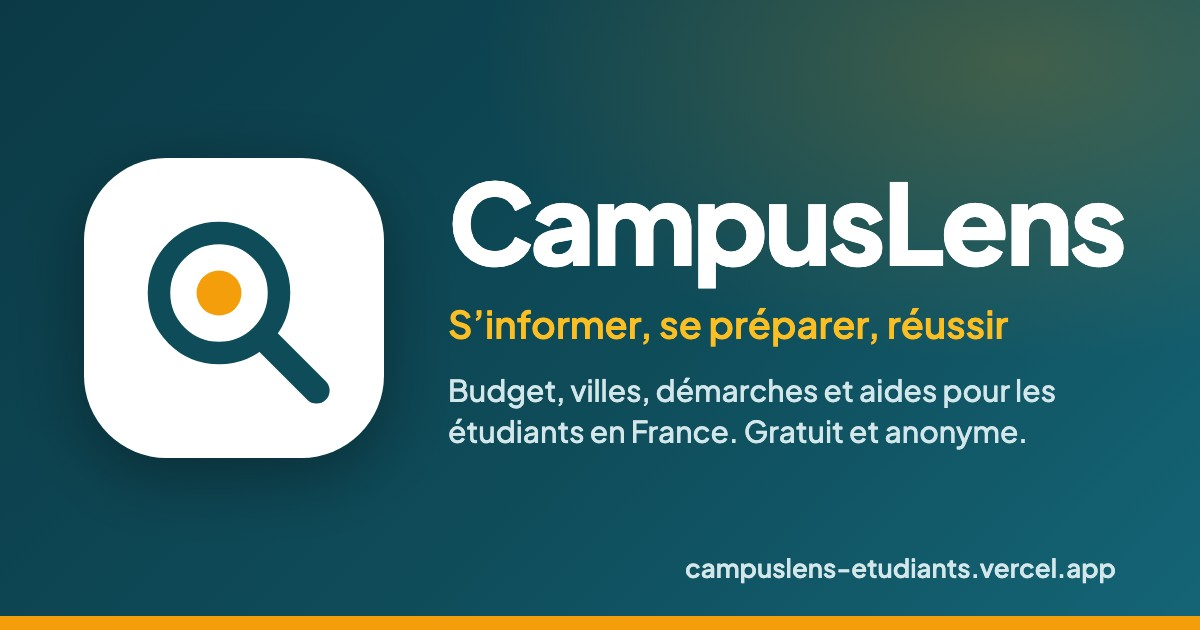
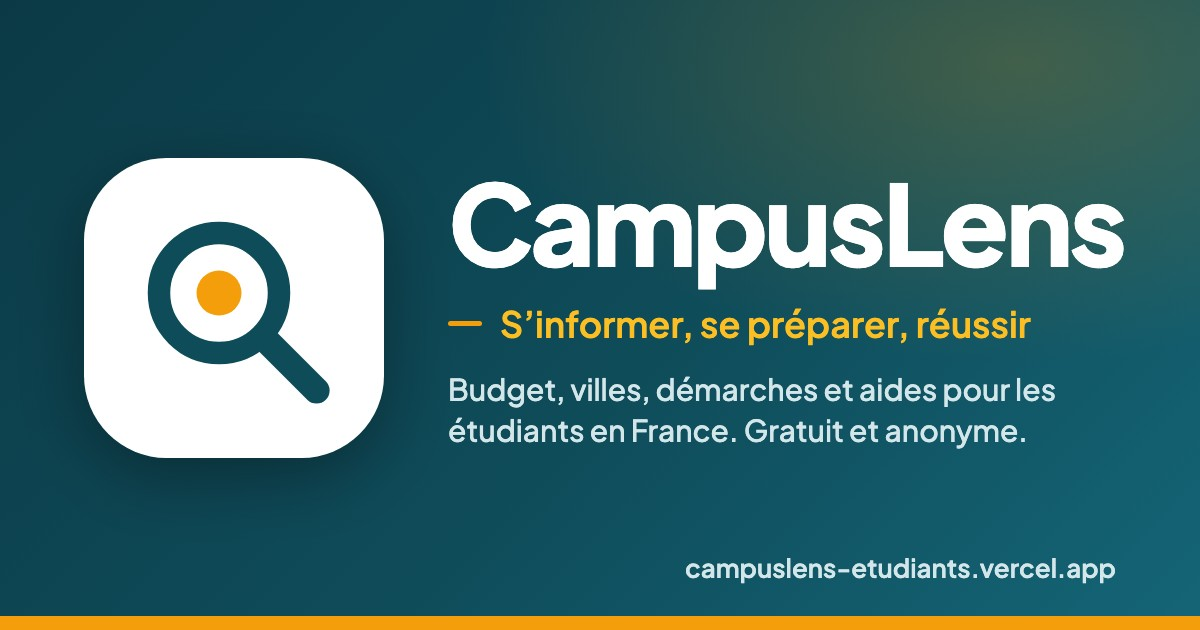
Textes cohérents avec le but du site (pied de page, Mes aides, accueil, À propos, profils, préfecture, application d'authentification), adresse e-mail personnelle retirée des pages, aperçu des liens (v=3) avec devise

diff --git a/frontend/src/pages/Admin.jsx b/frontend/src/pages/Admin.jsx
@@ -1021,7 +1021,11 @@ function DoubleAuthentification() {
     try {
       await post('/admin/2fa/desactiver', retrait);
       setRetrait(null);
-      setEtat({ envoi: false, erreur: null, message: 'Double authentification désactivée.' });
+      setEtat({
+        envoi: false,
+        erreur: null,
+        message: 'Application d’authentification désactivée.',
+      });
       recharger();
       rafraichirAdmin?.();
     } catch (err) {
@@ -1032,7 +1036,7 @@ function DoubleAuthentification() {
   return (
     <section className="carte carte-compte" aria-labelledby="titre-2fa">
       <h2 id="titre-2fa" className="titre-carte">
-        Double authentification
+        Application d’authentification
       </h2>
       {etat.message && (
         <p className="message message-succes" role="status">
@@ -1048,8 +1052,8 @@ function DoubleAuthentification() {
       {secours && (
         <div role="region" aria-label="Codes de secours" className="codes-secours">
           <p>
-            <strong>La double authentification est activée.</strong> Voici vos codes de secours.
-            Chacun ne sert qu’une fois, si vous perdez votre téléphone.{' '}
+            <strong>L’application d’authentification est activée.</strong> Voici vos codes de
+            secours. Chacun ne sert qu’une fois, si vous perdez votre téléphone.{' '}
             <strong>
               Notez-les maintenant dans un endroit sûr : ils ne seront plus jamais affichés.
             </strong>
@@ -1070,13 +1074,14 @@ function DoubleAuthentification() {
       {!secours && !data.actif && !preparation && (
         <>
           <p>
-            <strong>Non activée.</strong> Avec la double authentification, le mot de passe ne suffit
-            plus : il faut aussi un code à 6 chiffres qui change toutes les 30 secondes, produit par
-            une application sur votre téléphone (Google Authenticator, Microsoft Authenticator,
-            Aegis…). Même si votre mot de passe était volé, personne ne pourrait entrer.
+            <strong>Non activée.</strong> À chaque connexion, un code à 6 chiffres est déjà envoyé
+            par e-mail après votre mot de passe. L’application d’authentification ajoute une
+            protection qui ne dépend pas de votre boîte mail : elle affiche un code à 6 chiffres qui
+            change toutes les 30 secondes (Google Authenticator, Microsoft Authenticator, Aegis…).
+            Elle sert aussi de secours si l’e-mail n’arrive pas.
           </p>
           <button type="button" className="bouton" onClick={commencer} disabled={etat.envoi}>
-            Activer la double authentification
+            Activer l’application d’authentification
           </button>
         </>
       )}
@@ -1172,7 +1177,7 @@ function DoubleAuthentification() {
             />
           </div>
           <button type="submit" className="bouton" disabled={etat.envoi}>
-            Désactiver la double authentification
+            Désactiver l’application d’authentification
           </button>{' '}
           <button
             type="button"
@@ -1752,9 +1757,9 @@ export default function AdminLayout() {
         {/* Rappel tant que la double authentification n'est pas activée (sauf sur la page qui la propose). */}
         {admin && admin.deuxFacteurs === false && pathname !== '/admin/compte' && (
           <p className="message rappel-2fa" role="note">
-            <strong>Protégez votre compte.</strong> Les messages des visiteurs contiennent des
-            adresses e-mail : activez la double authentification dans{' '}
-            <Link to="/admin/compte">Mon compte</Link>.
+            <strong>Pour renforcer votre compte,</strong> ajoutez une application d’authentification
+            dans <Link to="/admin/compte">Mon compte</Link> : elle protège même si votre boîte mail
+            est piratée.
           </p>
         )}
         {admin && (

diff --git a/frontend/tests/budget.test.jsx b/frontend/tests/budget.test.jsx
@@ -40,16 +40,16 @@ describe('Préparer mon budget', () => {
       (await screen.findByText('Droits d’inscription', { selector: 'p' })).closest('li');
     expect(await droits()).toHaveTextContent('178');
 
-    await userEvent.click(screen.getByRole('button', { name: 'Boursier' }));
+    await userEvent.click(screen.getByRole('button', { name: 'Étudiant boursier' }));
     await vi.waitFor(async () => expect(await droits()).toHaveTextContent('0 €'));
     expect(mock).toHaveBeenCalledWith(
       '/api/postes-rentree?profil=boursier&niveau=licence',
       expect.anything(),
     );
 
-    await userEvent.click(screen.getByRole('button', { name: 'International hors UE' }));
+    await userEvent.click(screen.getByRole('button', { name: 'Étudiant international hors UE' }));
     await vi.waitFor(async () => expect(await droits()).toHaveTextContent('2 902'));
-    expect(screen.getByRole('button', { name: 'International hors UE' })).toHaveAttribute(
+    expect(screen.getByRole('button', { name: 'Étudiant international hors UE' })).toHaveAttribute(
       'aria-pressed',
       'true',
     );
@@ -125,11 +125,11 @@ describe('Préparer mon budget', () => {
       (await screen.findByText('Budget de rentrée à prévoir')).closest('li');
     expect(await total()).toHaveTextContent('815');
 
-    await userEvent.click(screen.getByRole('button', { name: 'Boursier' }));
+    await userEvent.click(screen.getByRole('button', { name: 'Étudiant boursier' }));
     await vi.waitFor(async () => expect(await total()).toHaveTextContent('637'));
     expect(screen.getByText(/Offert avec votre bourse \(178/)).toBeInTheDocument();
 
-    await userEvent.click(screen.getByRole('button', { name: 'International hors UE' }));
+    await userEvent.click(screen.getByRole('button', { name: 'Étudiant international hors UE' }));
     await vi.waitFor(async () => expect(await total()).toHaveTextContent('3 639'));
     expect(screen.getByText('Taxe de validation du visa (VLS-TS)')).toBeInTheDocument();
   });
@@ -145,7 +145,7 @@ describe('Préparer mon budget', () => {
     expect(rappel.textContent).toContain('je viens d’arriver en France');
     expect(rappel.textContent).not.toContain('en france');
     expect(rappel.textContent).toMatch(
-      /«\u00a0International hors UE, je viens d’arriver en France\u00a0»/,
+      /«\u00a0Étudiant international hors UE, je viens d’arriver en France\u00a0»/,
     );
 
     const ressources = screen.getByRole('region', { name: /À justifier pour votre visa/ });
@@ -193,7 +193,7 @@ describe('Préparer mon budget', () => {
     ).toBeInTheDocument();
 
     // International en master : droits différenciés du master.
-    await userEvent.click(screen.getByRole('button', { name: 'International hors UE' }));
+    await userEvent.click(screen.getByRole('button', { name: 'Étudiant international hors UE' }));
     await vi.waitFor(async () => expect(await droits()).toHaveTextContent('3 950'));
   });
 
@@ -215,11 +215,11 @@ describe('Préparer mon budget', () => {
     );
 
     // L'exonération n'existe que pour le profil international.
-    await userEvent.click(screen.getByRole('button', { name: 'Boursier' }));
+    await userEvent.click(screen.getByRole('button', { name: 'Étudiant boursier' }));
     expect(screen.queryByRole('checkbox', { name: /exonéré/ })).not.toBeInTheDocument();
 
     // Revenir au profil international : l'exonération ne s'est pas cochée toute seule.
-    await userEvent.click(screen.getByRole('button', { name: 'International hors UE' }));
+    await userEvent.click(screen.getByRole('button', { name: 'Étudiant international hors UE' }));
     expect(screen.getByRole('checkbox', { name: /exonéré/ })).not.toBeChecked();
     await vi.waitFor(async () => expect(await droits()).toHaveTextContent('3 950'));
   });

diff --git a/frontend/tests/textes-coherents.test.js b/frontend/tests/textes-coherents.test.js
@@ -1,0 +1,50 @@
+import { describe, it, expect } from 'vitest';
+import { readFileSync } from 'node:fs';
+import { resolve } from 'node:path';
+
+// Les textes de page sont coupés en lignes par le formateur : on compare avec des espaces simples.
+const lire = (chemin) =>
+  readFileSync(resolve(import.meta.dirname, '..', chemin), 'utf8').replace(/[ \t]*\n[ \t]*/g, ' ');
+
+describe('Cohérence des textes du site avec son but (informer, préparer, bien vivre ses études)', () => {
+  it('plus aucune promesse de « droit » dans les titres ni l’ancien message du pied de page', () => {
+    expect(lire('src/pages/Aides.jsx')).not.toContain('auxquelles vous avez droit');
+    expect(lire('src/components/Pied.jsx')).not.toContain('Comprendre ses droits');
+    expect(lire('src/pages/Accueil.jsx')).not.toContain('Je découvre mes droits');
+    expect(lire('src/pages/Accueil.jsx')).not.toContain('absolument');
+    expect(lire('src/pages/APropos.jsx')).not.toMatch(
+      /connaître ses droits|comprendre leurs droits/,
+    );
+  });
+  it('les trois profils portent le même nom partout', () => {
+    const profils = lire('src/lib/profils.js');
+    expect(profils).toContain("'Étudiant français ou UE'");
+    expect(profils).toContain("'Étudiant international hors UE'");
+    expect(profils).not.toContain('européen');
+    const budget = lire('src/pages/Budget.jsx');
+    expect(budget).toContain("libelle: 'Étudiant boursier'");
+    expect(budget).toContain("libelle: 'Étudiant international hors UE'");
+  });
+  it('« apprécié » (jargon) ne figure plus : la décision revient à la préfecture', () => {
+    expect(lire('src/pages/Budget.jsx')).not.toContain('apprécié');
+    expect(lire('src/pages/Budget.jsx')).toContain('la décision revient à la préfecture');
+  });
+  it('« À propos » ne prétend pas que des robots lisent les sites qui les refusent', () => {
+    expect(lire('src/pages/APropos.jsx')).toContain('refuse les robots');
+    expect(lire('src/pages/APropos.jsx')).toContain('à la main, au moins tous les 90');
+  });
+  it('aucune adresse e-mail personnelle publiée (pages, security.txt, configuration)', () => {
+    const securite = readFileSync(
+      resolve(import.meta.dirname, '..', 'public/.well-known/security.txt'),
+      'utf8',
+    );
+    expect(securite).not.toMatch(/@gmail|mailto:/i);
+    expect(securite).toMatch(/^Contact: https:\/\/campuslens-etudiants\.vercel\.app\/contact$/m);
+    for (const f of [
+      'src/pages/Contact.jsx',
+      'src/pages/MentionsLegales.jsx',
+      'src/pages/APropos.jsx',
+    ])
+      expect(lire(f)).not.toMatch(/mailto:|@gmail/);
+  });
+});

diff --git a/frontend/tests/contact.test.jsx b/frontend/tests/contact.test.jsx
@@ -96,10 +96,11 @@ describe('Contact', () => {
     expect(piege.closest('[aria-hidden="true"]')).not.toBeNull();
   });
 
-  it('propose aussi l’adresse e-mail directe de l’équipe', () => {
-    rendreApp('/contact');
-    const lien = screen.getByRole('link', { name: 'ousmanebarrie224@gmail.com' });
-    expect(lien).toHaveAttribute('href', 'mailto:ousmanebarrie224@gmail.com');
+  it('n’affiche aucune adresse e-mail personnelle : on écrit par le formulaire', () => {
+    const { container } = rendreApp('/contact');
+    expect(container.querySelector('a[href^="mailto:"]')).toBeNull();
+    expect(container.textContent).not.toMatch(/@gmail|@hotmail|@yahoo|@outlook/i);
+    expect(screen.queryByText(/Vous préférez écrire directement/)).not.toBeInTheDocument();
   });
 
   it('accessibilité : aucune violation axe-core', async () => {
@@ -119,10 +120,10 @@ describe('Mentions légales', () => {
     expect(screen.getByText(/CNIL/)).toBeInTheDocument();
     expect(screen.getByText(/Responsable de la publication : Ousmane Barry/)).toBeInTheDocument();
     expect(screen.queryByText(/nom et prénom à compléter/)).not.toBeInTheDocument();
-    expect(screen.getByRole('link', { name: 'ousmanebarrie224@gmail.com' })).toHaveAttribute(
-      'href',
-      'mailto:ousmanebarrie224@gmail.com',
-    );
+    // Le contact passe par la page Contact : aucune adresse e-mail personnelle n'est publiée.
+    expect(container.querySelector('a[href^="mailto:"]')).toBeNull();
+    expect(container.textContent).not.toMatch(/@gmail|@hotmail|@yahoo|@outlook/i);
+    expect(screen.getByRole('link', { name: 'page Contact' })).toHaveAttribute('href', '/contact');
     expect(await violationsAxe(container)).toEqual([]);
   });
 });

diff --git a/frontend/src/pages/APropos.jsx b/frontend/src/pages/APropos.jsx
@@ -74,8 +74,8 @@ export default function APropos() {
       <header className="page-titre">
         <h1>À propos</h1>
         <p>
-          CampusLens aide les étudiants en France à comprendre leurs droits, à découvrir les aides
-          et les démarches utiles, et à évaluer leur budget.
+          CampusLens aide les étudiants en France à s’informer, à se préparer et à bien vivre leurs
+          études : estimer leur budget, comparer les villes, trouver les démarches et aides utiles.
         </p>
       </header>
 
@@ -107,8 +107,7 @@ export default function APropos() {
           />
           <small>Notre mission</small>
           <strong>
-            Aider chaque étudiant à connaître ses droits, à s’informer et à garder le contrôle de
-            son budget.
+            Aider chaque étudiant à s’informer, à se préparer et à garder le contrôle de son budget.
           </strong>
         </div>
       </section>
@@ -142,7 +141,9 @@ export default function APropos() {
             <li>
               <strong>Chaque jour ou chaque semaine</strong>, des robots relisent les sources
               officielles : loyers par ville, résidences Crous, pages de Service-Public, tarifs des
-              réseaux de transport.
+              réseaux de transport. Quand le site d’une source refuse les robots (c’est le cas de
+              certains réseaux de transport), nous vérifions sa page à la main, au moins tous les 90
+              jours.
             </li>
             <li>
               <strong>Quand une page change</strong>, le site le signale. Pour les montants

diff --git a/frontend/index.html b/frontend/index.html
@@ -17,10 +17,10 @@
     <meta property="og:title" content="CampusLens — S’informer, se préparer, réussir" />
     <meta
       property="og:description"
-      content="Budget, villes, démarches et aides pour les étudiants en France. Gratuit et anonyme."
+      content="Estimez votre budget, comparez les villes étudiantes, découvrez les démarches et aides essentielles. Gratuit et anonyme."
     />
     <meta property="og:url" content="https://campuslens-etudiants.vercel.app/" />
-    <meta property="og:image" content="https://campuslens-etudiants.vercel.app/og-image.jpg?v=2" />
+    <meta property="og:image" content="https://campuslens-etudiants.vercel.app/og-image.jpg?v=3" />
     <meta property="og:image:type" content="image/jpeg" />
     <meta property="og:image:width" content="1200" />
     <meta property="og:image:height" content="630" />
@@ -32,9 +32,9 @@
     <meta name="twitter:title" content="CampusLens — S’informer, se préparer, réussir" />
     <meta
       name="twitter:description"
-      content="Budget, villes, démarches et aides pour les étudiants en France. Gratuit et anonyme."
+      content="Estimez votre budget, comparez les villes étudiantes, découvrez les démarches et aides essentielles. Gratuit et anonyme."
     />
-    <meta name="twitter:image" content="https://campuslens-etudiants.vercel.app/og-image.jpg?v=2" />
+    <meta name="twitter:image" content="https://campuslens-etudiants.vercel.app/og-image.jpg?v=3" />
     <link rel="icon" href="/favicon.svg" type="image/svg+xml" />
     <title>CampusLens</title>
   </head>

diff --git a/frontend/src/pages/Budget.jsx b/frontend/src/pages/Budget.jsx
@@ -15,8 +15,8 @@ const SITUATIONS = [
 
 const PROFILS = [
   { code: 'fr_ue', libelle: 'Étudiant français ou UE' },
-  { code: 'boursier', libelle: 'Boursier' },
-  { code: 'intl', libelle: 'International hors UE' },
+  { code: 'boursier', libelle: 'Étudiant boursier' },
+  { code: 'intl', libelle: 'Étudiant international hors UE' },
 ];
 
 const NIVEAUX = [
@@ -230,9 +230,9 @@ export default function Budget() {
                 <p>
                   Soit {formaterEuroCentimes(ressourcesVisa.valeur * 12)} sur une année. C’est le
                   montant minimum de ressources que l’administration demande pour un visa ou un
-                  titre de séjour « étudiant ». Au renouvellement, il est apprécié selon votre
-                  situation particulière : renseignez-vous auprès de la préfecture sur la prise en
-                  compte d’un job étudiant (limité à{' '}
+                  titre de séjour « étudiant ». Ce montant est un repère : au renouvellement, la
+                  décision revient à la préfecture, selon l’ensemble de votre dossier.
+                  Renseignez-vous auprès d’elle sur la prise en compte d’un job étudiant (limité à{' '}
                   {heuresMax !== null ? `${heuresMax} heures par an` : 'un nombre d’heures annuel'}
                   ).
                 </p>

diff --git a/frontend/src/pages/Contact.jsx b/frontend/src/pages/Contact.jsx
@@ -2,7 +2,6 @@ import { Link } from 'react-router-dom';
 import { useState } from 'react';
 import { post } from '../lib/api.js';
 import { usePageTitre } from '../lib/usePageTitre.js';
-import { EMAIL_CONTACT } from '../lib/config.js';
 
 export default function Contact() {
   usePageTitre('Contact');
@@ -46,10 +45,6 @@ export default function Contact() {
       </header>
 
       <section className="carte" style={{ maxWidth: 640 }}>
-        <p className="contact-direct">
-          Vous préférez écrire directement ? Envoyez un e-mail à{' '}
-          <a href={`mailto:${EMAIL_CONTACT}`}>{EMAIL_CONTACT}</a>.
-        </p>
         {etat.succes && (
           <p className="message message-succes" role="status">
             Message envoyé. Merci, nous vous répondrons dès que possible.

diff --git a/frontend/src/pages/MentionsLegales.jsx b/frontend/src/pages/MentionsLegales.jsx
@@ -1,6 +1,5 @@
 import { Link } from 'react-router-dom';
 import { usePageTitre } from '../lib/usePageTitre.js';
-import { EMAIL_CONTACT } from '../lib/config.js';
 
 export default function MentionsLegales() {
   usePageTitre('Mentions légales et confidentialité');
@@ -13,8 +12,7 @@ export default function MentionsLegales() {
         <h2>Éditeur du site</h2>
         <p>
           CampusLens est un service gratuit d’information destiné aux étudiants en France.
-          Responsable de la publication : Ousmane Barry. Contact :{' '}
-          <a href={`mailto:${EMAIL_CONTACT}`}>{EMAIL_CONTACT}</a> ou la{' '}
+          Responsable de la publication : Ousmane Barry. Contact : la{' '}
           <Link to="/contact">page Contact</Link>.
         </p>
         <h2>Hébergement</h2>

diff --git a/frontend/src/pages/Accueil.jsx b/frontend/src/pages/Accueil.jsx
@@ -19,7 +19,7 @@ const ETAPES = [
   {
     titre: 'Je m’informe',
     texte:
-      'Je découvre mes droits : les aides adaptées à mon profil, comment les obtenir, et les guides officiels.',
+      'Je découvre les aides adaptées à mon profil, comment les obtenir, et les guides officiels.',
     lien: { vers: '/aides', libelle: 'Découvrir les aides' },
   },
   {
@@ -102,7 +102,7 @@ export default function Accueil() {
 
       <section aria-labelledby="titre-aides">
         <h2 id="titre-aides" className="titre-section">
-          Les aides à connaître absolument
+          Les aides essentielles
           <Link to="/aides">
             Voir toutes les aides <span aria-hidden="true">→</span>
           </Link>

diff --git a/frontend/tests/apropos.test.jsx b/frontend/tests/apropos.test.jsx
@@ -10,7 +10,9 @@ describe('Page À propos', () => {
     for (const titre of ['Informations fiables', 'Transparence', 'Gratuit et anonyme', 'Utile']) {
       expect(screen.getByRole('heading', { name: titre })).toBeInTheDocument();
     }
-    expect(screen.getByText(/Aider chaque étudiant à connaître ses droits/)).toBeInTheDocument();
+    expect(
+      screen.getByText(/Aider chaque étudiant à s’informer, à se préparer/),
+    ).toBeInTheDocument();
     const pied = screen.getByText('Liens utiles').closest('footer');
     expect(within(pied).getByRole('link', { name: 'Contact' })).toHaveAttribute('href', '/contact');
     expect(within(pied).getByRole('link', { name: 'Ressources' })).toHaveAttribute(

diff --git a/frontend/src/pages/Aides.jsx b/frontend/src/pages/Aides.jsx
@@ -305,10 +305,10 @@ export default function Aides() {
   return (
     <>
       <header className="page-titre">
-        <h1>Les aides auxquelles vous avez droit</h1>
+        <h1>Aides, entraide et villes</h1>
         <p>
-          Choisissez votre profil : chaque aide indique si vous y avez droit et comment la demander.
-          Découvrez aussi les associations d’entraide et comparez les villes.
+          Choisissez votre profil : chaque aide indique si elle peut vous concerner et comment la
+          demander. Découvrez aussi les associations d’entraide et comparez les villes.
         </p>
       </header>
 
